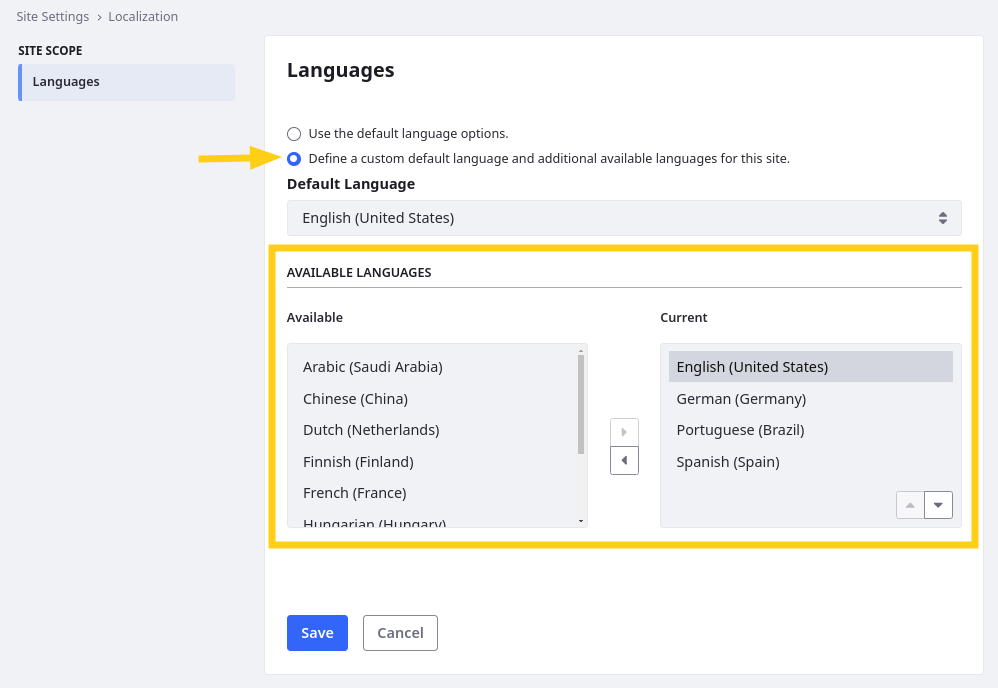
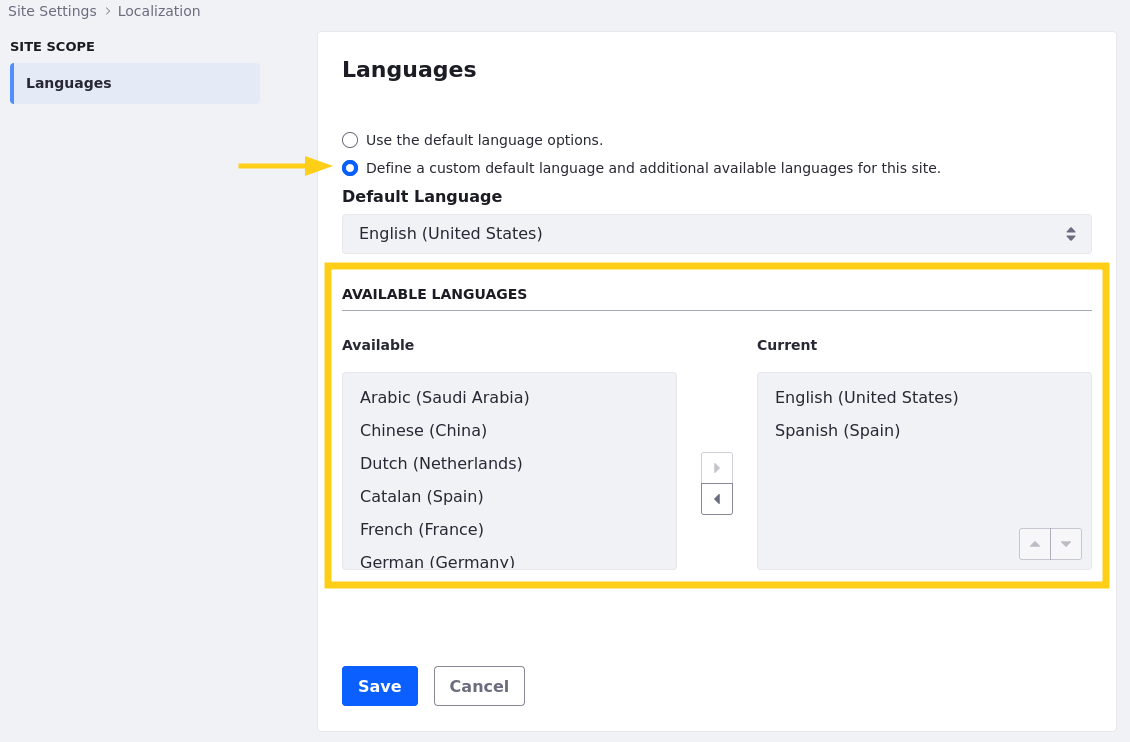
Remove Portuguese and German from Clarity's languages

diff --git a/docs/courses/latest/en/building-enterprise-websites-with-liferay/module-6-site-building/configuring-the-clarity-site.md b/docs/courses/latest/en/building-enterprise-websites-with-liferay/module-6-site-building/configuring-the-clarity-site.md
@@ -35,7 +35,7 @@ Setting the virtual host connects a domain name (e.g., `www.helloworld.com`) to 
 
 <!--TASK: ![Set the site’s virtual hosts.]()-->
 
-Clarity wants to set their site’s virtual host to `www.clarityvisionsolutions.com`. They also want to set virtual hosts for these languages to better engage their international audience: Spanish (`www.solucionesdeclaridad.com`), Portuguese (`www.soluesdeclareza.com`), and German (`www.klarheitsloesungen.com`).
+Clarity wants to set their site’s virtual host to `www.clarityvisionsolutions.com`. They also want to set a virtual host for Spanish (`www.solucionesdeclaridad.com`) to better engage their international audience.
 
 ## Accessibility
 
@@ -77,15 +77,9 @@ Now, let’s configure these site settings. While logged in as Walter Douglas,
 
 1. Set the site’s virtual host for the default language to `www.clarityvisionsolutions.com`.
 
-1. Click the *Add* button (![Add Button](../../images/icon-add.png)) to add additional virtual hosts for these languages:
+1. Click the *Add* button (![Add Button](../../images/icon-add.png)) to add an extra virtual host for Spanish with the URL `www.solucionesdeclaridad.com`.
 
-   * German: `www.klarheitsloesungen.com`
-
-   * Spanish: `www.solucionesdeclaridad.com`
-
-   * Portuguese: `www.solucoesdeclareza.com`
-
-   ![Add virtual hosts for these languages.](./configuring-the-clarity-site/images/04.png)
+   ![Add a virtual host for Spanish.](./configuring-the-clarity-site/images/04.png)
 
 1. Click *Save*.
 
@@ -93,7 +87,7 @@ Now, let’s configure these site settings. While logged in as Walter Douglas,
 
 1. Return to the *Site Settings* page and go to *Localization*.
 
-1. Define custom languages for your site. For now, Clarity only wants to support English (United States), Portuguese (Brazil), German (Germany), and Spanish (Spain) on their site. Use the left arrow button (![Left Arrow Button](../../images/icon-angle-left.png)) to move all other languages from the Current Column to the Available column.
+1. Define custom languages for your site. For now, Clarity only wants to support English (United States), and Spanish (Spain) on their site. Use the left arrow button (![Left Arrow Button](../../images/icon-angle-left.png)) to move all other languages from the Current Column to the Available column.
 
    ![Define a custom language configuration.](./configuring-the-clarity-site/images/05.png)
 
